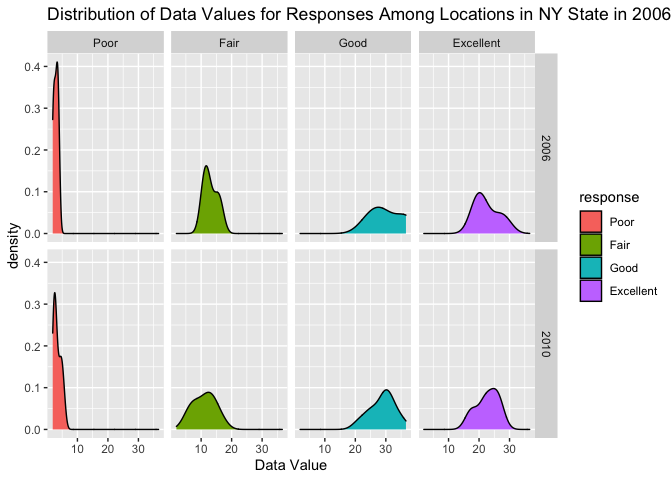
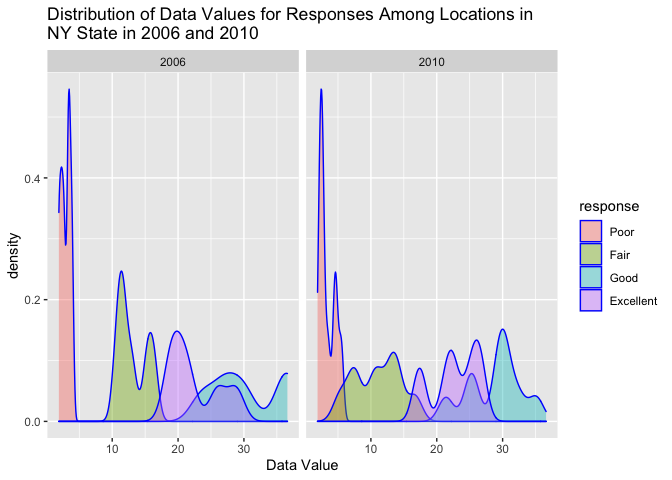
minor edits, comments, formatting, final knit

diff --git a/p8105_hw3_msv2137.md b/p8105_hw3_msv2137.md
@@ -1,7 +1,7 @@
 HW 3
 ================
 Malvika Venkataraman
-10/17/2021
+10/18/2021
 
 # Problem 1
 
@@ -10,13 +10,14 @@ Malvika Venkataraman
 library(p8105.datasets)
 data("instacart")
 
+#take a look at the data
 #View(instacart)
 ```
 
 ## Description of Data
 
 ``` r
-#understanding the dataset
+#understand the dataset
 str(instacart)
 ```
 
@@ -68,7 +69,7 @@ ncol(instacart)
     ## [1] 15
 
 ``` r
-#subsetting to the row of data to examine the variables
+#subset to a row of data to examine the variables
 order_1 <- instacart[1,]
 ```
 
@@ -96,9 +97,10 @@ before, and this product has been previously ordered by them (reordered
 hour of the day (10am), and 9 days since the user last placed an
 Instacart order.
 
-### Aisles
+## Aisles
 
 ``` r
+#calculate number of distinct aisles
 aisle_number = instacart %>% 
   distinct(aisle) %>% 
   nrow()
@@ -107,6 +109,7 @@ aisle_number = instacart %>%
 There are 134 aisles.
 
 ``` r
+#calculate top 3 aisles in terms of most items ordered
 most_items_aisle = instacart %>% 
   count(aisle) %>% 
   arrange(desc(n)) %>%
@@ -120,13 +123,14 @@ from. The fresh fruits aisle, is where the second most items have been
 ordered from. The packaged vegetables fruits aisle, is where the third
 most items have been ordered from.
 
-### Aisles Plot
+## Aisles Plot
 
 ``` r
+#Mplot that shows the number of items ordered in each aisle
 aisle_plot = instacart %>%
   count(aisle) %>%
   mutate(aisle = fct_reorder(aisle, n)) %>%
-  filter(n > 10000) %>%
+  filter(n > 10000) %>% #limit to aisles with more than 10000 items ordered
   ggplot(aes(x = aisle, y = n)) + geom_point() + labs(title = "Number of Items Ordered in Each Aisle", x = "Aisle", y = "Number of Items") + theme(axis.text.x = element_text(angle = 90, size = rel(1), hjust = 1))
 
 aisle_plot
@@ -134,9 +138,10 @@ aisle_plot
 
 ![](p8105_hw3_msv2137_files/figure-gfm/unnamed-chunk-5-1.png)<!-- -->
 
-### Aisles Table
+## Aisles Table
 
 ``` r
+#make table showing the three most popular items in each of three specific aisles
 three_most_popular = instacart %>%
   filter(aisle == 'baking ingredients' | aisle == 'dog food care' | aisle == 'packaged vegetables fruits') %>%
   group_by(aisle, product_name) %>%
@@ -164,19 +169,16 @@ knitr::kable(three_most_popular)
 | packaged vegetables fruits | Organic Raspberries                           |  5546 |
 | packaged vegetables fruits | Organic Blueberries                           |  4966 |
 
-### Pink Lady Apples and Coffee Ice Cream Table
+## Pink Lady Apples and Coffee Ice Cream Table
 
 ``` r
-days_of_week = c("Sunday", "Monday", "Tuesday", "Wednesday", "Thursday", "Friday", "Saturday")
-
+#make table showing the mean hour of the day at which Pink Lady Apples and Coffee Ice Cream are ordered on each day of the week
 mean_hour_order = instacart %>%
   filter(product_name == "Pink Lady Apples" | product_name == "Coffee Ice Cream") %>%
-  select(product_name, order_dow, order_hour_of_day) %>%
   group_by(product_name, order_dow) %>%
   summarize(
     mean_hour = mean(order_hour_of_day)
   ) %>%
-  mutate(order_dow = days_of_week[order_dow + 1]) %>%
   pivot_wider(
     names_from = order_dow,
     values_from = mean_hour
@@ -186,41 +188,44 @@ mean_hour_order = instacart %>%
     ## `summarise()` has grouped output by 'product_name'. You can override using the `.groups` argument.
 
 ``` r
-knitr::kable(mean_hour_order, 
-             digit = 2, 
-             col.names = c("Product Name", "Sunday", "Monday", "Tuesday", "Wednesday", "Thursday", "Friday", "Saturday"))
+knitr::kable(mean_hour_order)
 ```
 
-| Product Name     | Sunday | Monday | Tuesday | Wednesday | Thursday | Friday | Saturday |
-|:-----------------|-------:|-------:|--------:|----------:|---------:|-------:|---------:|
-| Coffee Ice Cream |  13.77 |  14.32 |   15.38 |     15.32 |    15.22 |  12.26 |    13.83 |
-| Pink Lady Apples |  13.44 |  11.36 |   11.70 |     14.25 |    11.55 |  12.78 |    11.94 |
+| product\_name    |        0 |        1 |        2 |        3 |        4 |        5 |        6 |
+|:-----------------|---------:|---------:|---------:|---------:|---------:|---------:|---------:|
+| Coffee Ice Cream | 13.77419 | 14.31579 | 15.38095 | 15.31818 | 15.21739 | 12.26316 | 13.83333 |
+| Pink Lady Apples | 13.44118 | 11.36000 | 11.70213 | 14.25000 | 11.55172 | 12.78431 | 11.93750 |
 
 # Problem 2
 
 ## Load Data
 
 ``` r
+#load data
 data("brfss_smart2010")
 
+#take a look at dataset
 #View(brfss_smart2010)
 ```
 
 ## Data Cleaning
 
 ``` r
+#clean the data
 brfss_data = brfss_smart2010 %>%
-  janitor::clean_names() %>%
-  filter(topic == "Overall Health") %>%
+  janitor::clean_names() %>% #clean up variable names
+  filter(topic == "Overall Health") %>% #focus on overall health topic
   mutate(response = factor(response, 
-                           levels = c("Poor", "Fair", "Good", "Very Good", "Excellent")))
+                           levels = c("Poor", "Fair", "Good", "Very Good", "Excellent"))) #include only responses from excellent to poor
 
+#take a look at the cleaned data
 #View(brfss_data)
 ```
 
 ## 7 or more loactions
 
 ``` r
+#find states observed at 7 or more locations in 2002
 states_2002 = brfss_data %>%
   filter(year == 2002) %>%
   group_by(locationabbr) %>%
@@ -229,6 +234,7 @@ states_2002 = brfss_data %>%
   filter(num_loc > 6) %>%
   pull(locationabbr)
 
+#find states observed at 7 or more locations in 2010
 states_2010 = brfss_data %>%
   filter(year == 2010) %>%
   group_by(locationabbr) %>%
@@ -247,10 +253,10 @@ WA were observed at 7 or more locations in 2010.
 ``` r
 #construct the dataset
 excellent_data = brfss_data %>%
-  filter(response == "Excellent") %>%
-  select(year, locationabbr, data_value) %>%
+  filter(response == "Excellent") %>% #limit only to excellent responses
+  select(year, locationabbr, data_value) %>% #contains year, state, and 
   group_by(year, locationabbr) %>%
-  summarise(mean_value = mean(data_value, na.rm = T))
+  summarise(mean_value = mean(data_value, na.rm = T)) #value that averages the data_value across locations within a state
 ```
 
     ## `summarise()` has grouped output by 'year'. You can override using the `.groups` argument.
@@ -277,13 +283,12 @@ two_panel_data = brfss_data %>%
   group_by(response) 
 
 #make plot
+my_title = "Distribution of Data Values for Responses Among Locations in NY State in 2006 and 2010"
 two_panel_plot = two_panel_data %>%
   ggplot(aes(x = data_value, fill = response)) +
-  geom_density() +
-  facet_grid(year~response) +
-  labs(
-    title = "Distribution of Data Values for Responses Among Locations in NY State in 2006 and 2010", 
-    x = "Data Value")
+  geom_density(alpha = .4, adjust = .5, color = "blue") + #adjust plot aesthetics to make more readable
+  facet_grid(~year) + #two panels - one for each year
+  labs(title = str_wrap(my_title, 60), x = "Data Value")
 
 two_panel_plot
 ```
@@ -295,11 +300,8 @@ two_panel_plot
 ## Load, Tidy and Wrangle Data
 
 ``` r
-#accel_data = read_csv("./data/accel_data.csv")
-#View(accel_data)
-
 accel_data = read_csv("./data/accel_data.csv") %>%
-  janitor::clean_names() %>%
+  janitor::clean_names() %>% #clean up variable names
   pivot_longer(
     activity_1:activity_1440,
     names_to = "minute",
@@ -307,7 +309,7 @@ accel_data = read_csv("./data/accel_data.csv") %>%
     values_to = "activity_count"
   ) %>%
   mutate(
-    weekday = ifelse(day == "Saturday" | day == "Sunday", "weekend", "weekday"),
+    weekday = ifelse(day == "Saturday" | day == "Sunday", "weekend", "weekday"), #make a variable that distinguishes between weekends and weekdays
     minute = as.numeric(minute)
   )
 ```
@@ -338,13 +340,13 @@ accel_data %>%
   mutate(day = forcats::fct_relevel(day, c("Monday", "Tuesday", "Wednesday", "Thursday", "Friday", "Saturday", "Sunday"))) %>%
   group_by(week, day) %>%
   summarize(
-    total_activity = sum(activity_count)
+    total_activity = sum(activity_count) #aggregate across minutes to create a total activity variable for each day
   ) %>%
   pivot_wider(
     names_from = day,
     values_from = total_activity
     ) %>%
-  knitr::kable()
+  knitr::kable() #create a table showing the totals
 ```
 
     ## `summarise()` has grouped output by 'week'. You can override using the `.groups` argument.
@@ -405,11 +407,12 @@ second table, we also see that activity levels were the highest in Week
 ## Plot 24 Hr Activity for Each Day
 
 ``` r
+#plot the 24-hour activity time courses for each day
 accel_data %>%
-  mutate(day = forcats::fct_relevel(day, c("Monday", "Tuesday", "Wednesday", "Thursday", "Friday", "Saturday", "Sunday"))) %>% 
-  ggplot(aes(x = minute, y = activity_count, color = day)) + 
+  mutate(day = forcats::fct_relevel(day, c("Monday", "Tuesday", "Wednesday", "Thursday", "Friday", "Saturday", "Sunday"))) %>%
+  ggplot(aes(x = minute, y = activity_count, color = day, group = day_id)) + #color indicates day of the week
   geom_line() +
-  labs(
+   labs(
     title = "Activity Over the Course of the Day",
     x = "Minute",
     y = "Activity"
@@ -421,12 +424,12 @@ accel_data %>%
 ### Analysis
 
 Several observations can be made from this graph. On all days of the
-week, activity in lower during the first \~300 minutes of the day, as
+week, activity was lower during the first \~300 minutes of the day, as
 well as the last \~150 minutes of the day. A possible explanation for
 this is that the patient may be sleeping during these times.
 
 On certain days, the patient has different spikes in activity. On
-Friday, the patient’s activity is higher in the night and it runs longer
-into the night than on other days. On Sundays, the patient’s peak
-activity occurs around minute 850 approximately. On Thursdays, there is
-a spike in activity around minute 350 approximately.
+Fridays, the patient’s activity is higher overall in the night and it
+runs longer into the night than on other days. On Sundays, the patient’s
+peak activity occurs around minute 700 approximately. On Thursdays,
+there is a spike in activity around minute 400 approximately.
